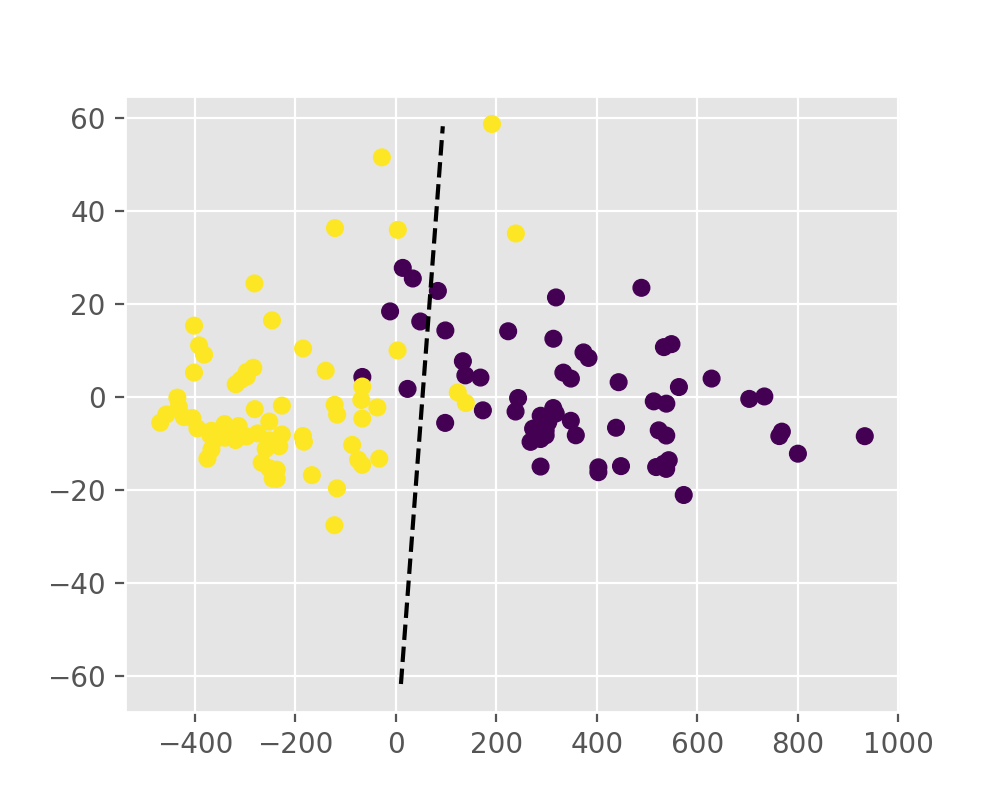
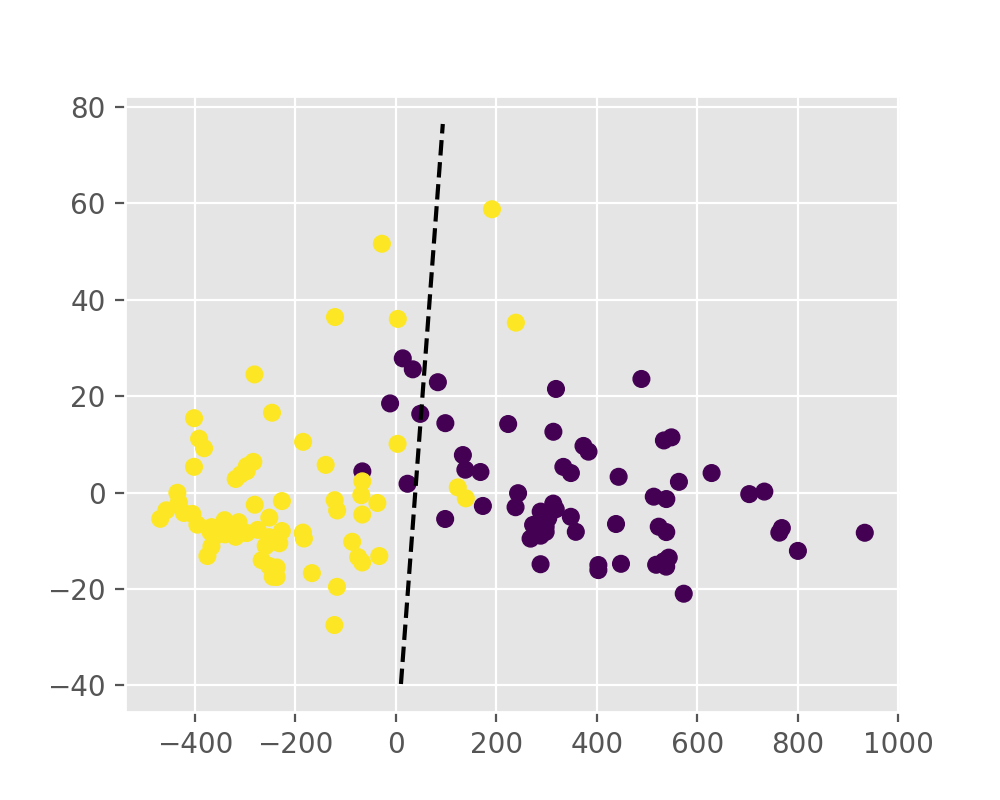
master

diff --git a/svm/svm_by_pkg.py b/svm/svm_by_pkg.py
@@ -76,16 +76,27 @@ class SSVM(object):
     binary classifier
     """
 
-    def __init__(self, C=1.0):
-        self.support_vector = []
-        self.w = None
-        self.b = None
+    def __init__(self, C=1.0, kernel="linear"):
+        assert kernel in ("linear", "rbf"), "kernel should be ('linear','rbf')"
+        self.kernel = kernel
+        self.support_vector = None
+        self.n_sv = None
+        self.n_feature = None
+        self.dual_coef = None
+        self.coef = None
+        self.intercept = None
         self.C = C
 
     def fit_dual_problem(self, X, y):
-        N = X.shape[1]
+        self.n_feature, N = X.shape
 
-        Q = matrix((y.reshape((-1, 1)) @ y.reshape((1, -1))) * (X.T @ X))
+        K = np.zeros((N, N))
+        for i in range(0, N):
+            for j in range(0, i + 1):
+                # print("i = %d\t j = %d" % (i, j))
+                K[i, j] = K[j, i] = self.__kernel_function(X[:, i], X[:, j])
+
+        Q = matrix((y.reshape((-1, 1)) @ y.reshape((1, -1))) * K)
         p = matrix([-1.0] * N)
 
         tmp_G = np.vstack((-np.eye(N), np.eye(N)))
@@ -97,19 +108,39 @@ class SSVM(object):
         b = matrix(0.0)
 
         sol = solvers.qp(Q, p, G, h, A, b)
-        lam = np.array(sol["x"])
-        lam = np.squeeze(lam)
+        self.dual_coef = np.squeeze(np.array(sol["x"]))
 
-        self.w = X @ (lam * y)
+        mask = self.dual_coef > 1e-3
+        self.n_sv = mask.sum()
+        self.dual_coef = self.dual_coef[mask]
+        X_sv, y_sv = X[:, mask], y[mask]
+        self.support_vector = (X_sv, y_sv)
 
-        mask = lam > 0.0
-        self.b = (y[mask] - self.w @ X[:, mask]).mean()
-        for index, flag in enumerate(mask):
-            if flag:
-                self.support_vector.append((X[:, index], y[index]))
-
+        if "linear" == self.kernel:
+            self.coef = X_sv @ (self.dual_coef * y_sv)
+        self.intercept = (y_sv - (self.dual_coef * y_sv)
+                          @ K[mask][:, mask]).mean()
         return self
 
     def predict(self, X):
-        y = self.w @ X + self.b
+        X_sv, y_sv = self.support_vector
+        N = X.shape[1]
+        K = np.zeros((self.n_sv, N))
+        for i in range(self.n_sv):
+            for j in range(N):
+                K[i, j] = self.__kernel_function(X_sv[:, i], X[:, j])
+
+        y = (self.dual_coef * y_sv) @ K + self.intercept
+        y = np.squeeze(y)
         return np.where(y > 0, 1.0, -1.0)
+
+    def __rbf(self, xi, xj):
+        diff = xi - xj
+        variance = 1.0
+        return np.exp(- (diff @ diff) / (2 * variance))
+
+    def __kernel_function(self, xi, xj):
+        if "rbf" == self.kernel:
+            return self.__rbf(xi, xj)
+        elif "linear" == self.kernel:
+            return xi @ xj

diff --git a/svm/svm1.py b/svm/svm1.py
@@ -1,0 +1,55 @@
+import numpy as np
+
+
+class SVC(object):
+
+    def __init__(self, C=1.0, kernel="rbf"):
+        self.C = C
+        self.kernel = kernel
+        self.w = None
+        self.b = None
+        self.alpha = None
+        self.E = None
+        self.K = None
+        self.epsilon = 1e-8
+        self.support_vector = []
+
+    def fit(self, X, y):
+        # n_feature, n_sample = X.shape
+
+        pass
+
+    def predict(self, X):
+        # 只需计算支持向量所对应的核函数的值，即alpha > 0 的那些项
+        return None
+
+    def __smo(self, X, y):
+        # 变量初始化
+        n_sample = X.shape[1]
+        self.alpha = np.zeros(n_sample)
+        self.K = np.zeros(n_sample)
+        for i, xi in enumerate(i, X):
+            for j, xj in enumerate(j, X):
+                self.K[i, j] = self.__rbf(xi, xj)
+
+        pass
+
+    def __rbf(self, xi, xj):
+        """
+        Gaussian kernel function
+
+        Parameters
+        ----------
+        xi : np.ndarray
+            1D-array = vector
+        xj : np.ndarray
+            1D-array = vector
+
+        Returns
+        -------
+        float
+            product of two vectors tranformed
+        """
+        variance = 1.0
+        diff = xi - xj
+        return np.exp(- (diff @ diff) / (2 * variance))

diff --git a/svm/test_svm_by_pkg.py b/svm/test_svm_by_pkg.py
@@ -51,11 +51,11 @@ def test1():
 def test2():
     # 软间隔
     X, y = load_data("wine", 2)
-    clf = SSVM()
+    clf = SSVM(kernel="linear")
     clf.fit_dual_problem(X, y)
     y_ = clf.predict(X)
     print(accuracy_score(y_, y))
-    print(len(clf.support_vector))
+    print(clf.n_sv)
 
     plt.style.use("ggplot")
     plt.figure(figsize=(5, 4))
@@ -63,13 +63,19 @@ def test2():
 
     # 画分割线
     x = np.linspace(10.0, X[0, :].max() / 10)
-    w, b = clf.w, clf.b
+    w, b = clf.coef, clf.intercept
     def f(x): return (-w[0] / w[1]) * x - (b / w[1])
     plt.plot(x, f(x), 'k--')
     # plt.show()
-    plt.savefig("svm\\soft_svm_by_pkg.png", dpi=200)
+    # plt.savefig("svm\\soft_svm_by_pkg.png", dpi=200)
+
+    clf = SSVM(kernel="rbf")
+    clf.fit_dual_problem(X, y)
+    y_ = clf.predict(X)
+    print(accuracy_score(y_, y))
+    print(clf.n_sv)
 
 
 if __name__ == "__main__":
-    test1()
-    # test2()
+    # test1()
+    test2()
